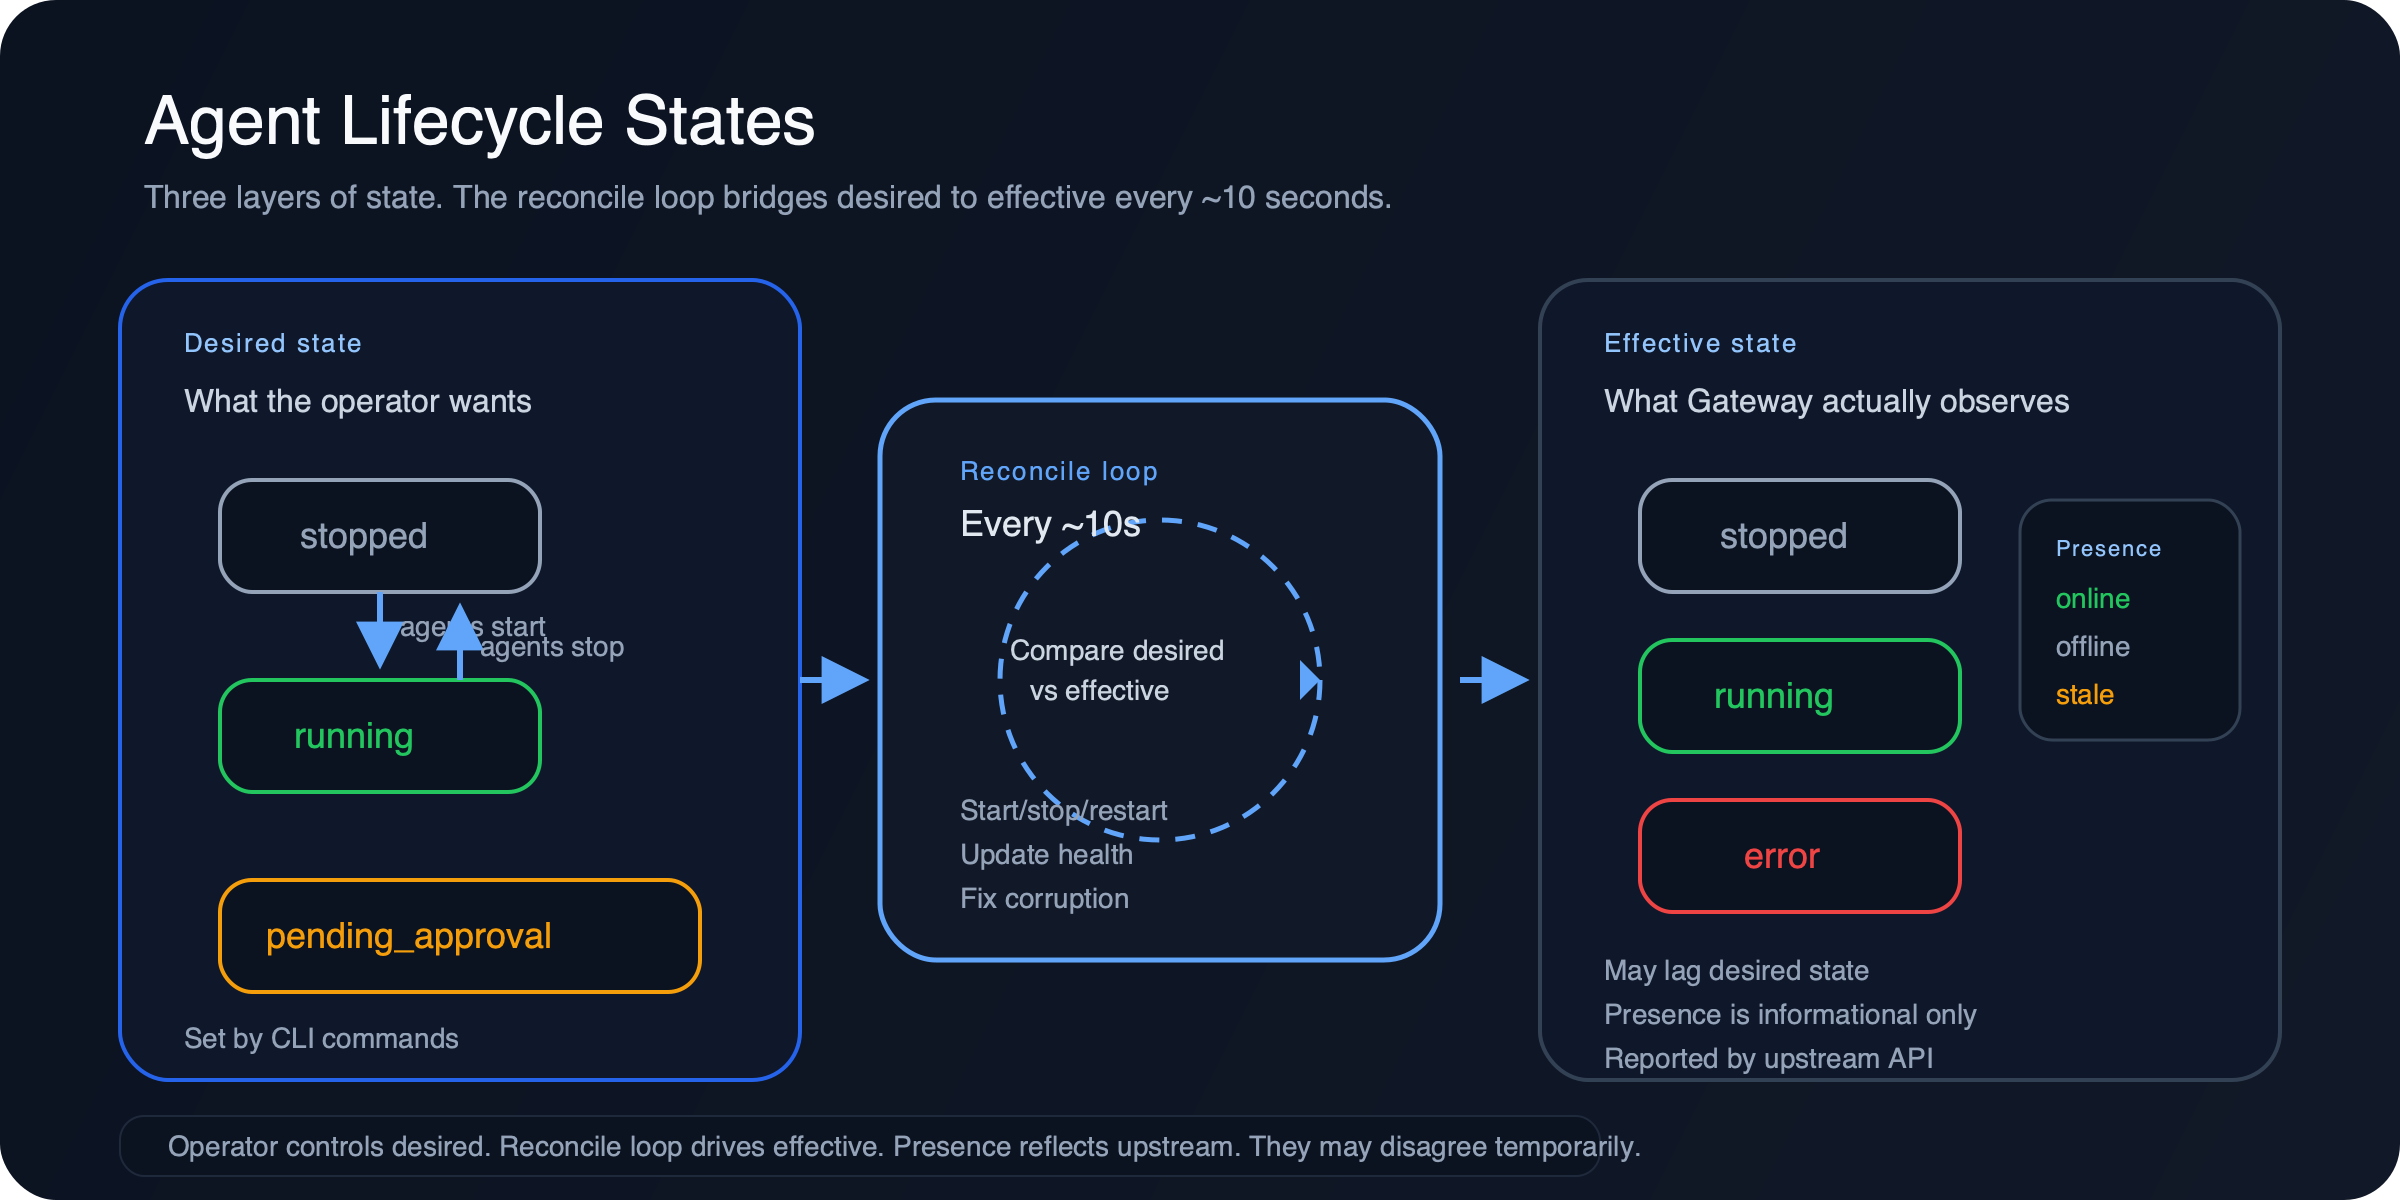
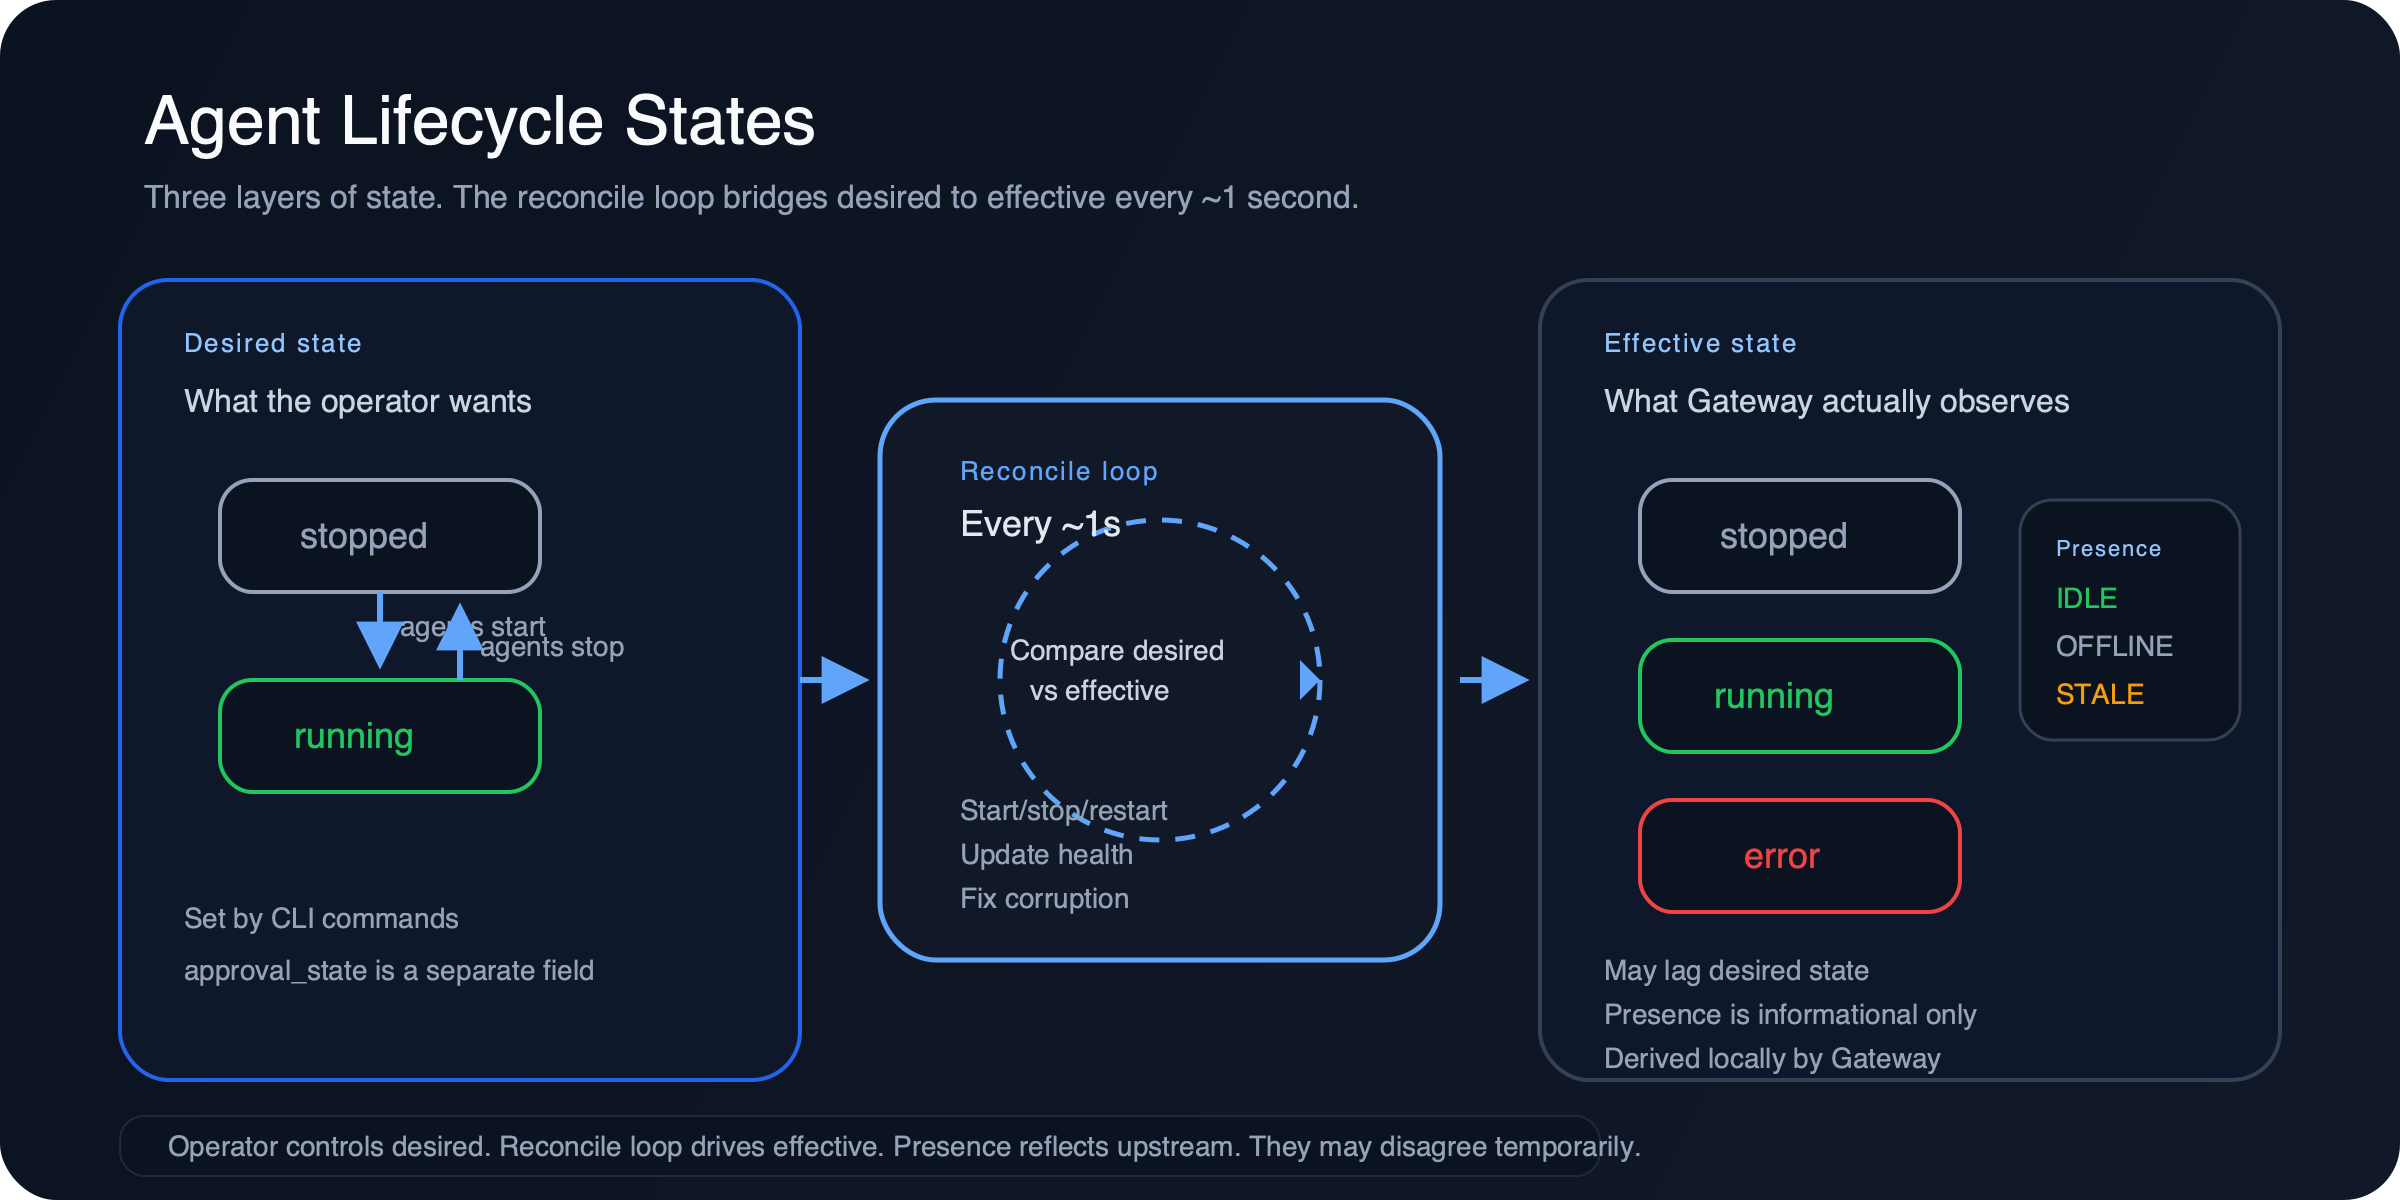
fix(docs): comprehensive accuracy pass — align diagrams and docs with codebase
Verified all SVG diagrams and doc sections against actual code. Key fixes:

- trust-boundary-model: add 3 missing proxy methods (list_agents_availability,
  list_context, get_context), mark update_task as ADMIN tier, fix auth command
- agent-lifecycle-states: fix reconcile interval (1s not 10s), remove
  pending_approval from desired state (separate approval_state field), fix
  presence values to _CONTROLLED_PRESENCE enum, fix derivation source
- inbox-vs-channel: fix signal chain (accepted, not picked_up)
- space-resolution-cascade: fix function description, update UUID-as-name
  warning to reflect _UUID_RE guard now in place
- config-resolution-cascade: add AX_AGENT_ID, fix user.toml claim (IS in
  config resolution), soften local config credentials note
- agent-authentication.md: fix line refs, session token TTL (24h), reuse
  semantics (reused within connection via X-Gateway-Session), auth command
- gateway-agent-runtimes.md: fix effective state values, presence derivation,
  space_name_from_cache description, attach vs mark-attached, 4 stale line
  numbers, signal names

Regenerated all 6 PNGs from updated SVGs.

diff --git a/docs/gateway-agent-runtimes.md b/docs/gateway-agent-runtimes.md
@@ -157,7 +157,7 @@ reply. This is how operators know work did not disappear into a black hole.
 
 Minimum signals:
 
-- `picked_up` or `working`: the runtime received the message.
+- `accepted` or `working`: the runtime received the message.
 - `thinking`: the model/runtime started processing.
 - `tool_call`: the runtime is using a tool, with a useful tool name or summary
   when available.
@@ -239,10 +239,10 @@ When Gateway needs a space name for an agent, it checks three sources in order:
    both caches miss.
 
 The key function is `space_name_from_cache(space_id)` in `ax_cli/gateway.py`.
-It checks the global disk cache for slug→UUID resolution and friendly-name
-hydration. `_fallback_allowed_spaces()` is a separate function that synthesizes
-per-agent space rows from entry/session fields — it does not populate the
-global disk cache.
+It does id-to-name lookup against the global disk cache.
+`lookup_space_in_cache()` handles slug-to-UUID resolution separately.
+`_fallback_allowed_spaces()` synthesizes per-agent space rows from
+entry/session fields — it does not populate the global disk cache.
 
 ### Common failure: UUID-as-name
 
@@ -251,8 +251,8 @@ platform bug or data inconsistency), the per-agent cache stores that UUID as the
 "name." The operator then sees a UUID in `agents show`, the UI agent table, and
 log messages — confusing but not a functional failure.
 
-**Fix:** The cache needs to validate that a name doesn't look like a UUID before
-storing it. This is a good first issue (see issue backlog).
+**Status:** The `_UUID_RE` guard now validates that a name doesn't look like a
+UUID before caching, preventing this at the storage layer.
 
 ### Space state storage
 
@@ -278,11 +278,12 @@ is key to debugging agent issues.
 | Layer | What it represents | Who sets it | Example values |
 | --- | --- | --- | --- |
 | **Desired state** | What the operator wants | `agents start`, `agents stop` | `running`, `stopped` |
-| **Effective state** | What Gateway observes locally | Reconcile loop | `running`, `stopped`, `error`, `pending_approval` |
-| **Presence** | What the upstream platform reports | Upstream API heartbeat | `online`, `offline`, `stale` |
+| **Effective state** | What Gateway observes locally | Reconcile loop | `running`, `stopped`, `error`, `starting`, `reconnecting` |
+| **Presence** | What Gateway derives locally | `_derive_presence()` | `IDLE`, `OFFLINE`, `STALE`, `WORKING`, `QUEUED`, `BLOCKED`, `ERROR` |
 
-The reconcile loop bridges desired to effective. It runs every ~10 seconds
-(`GatewayDaemon.run()` at `ax_cli/gateway.py:5767`) and for each agent:
+The reconcile loop bridges desired to effective. It runs every ~1 second
+(`GatewayDaemon.run()` at `ax_cli/gateway.py:6334`, default `poll_interval=1.0`)
+and for each agent:
 
 1. Compares `desired_state` to `effective_state`
 2. If they differ, takes action (start process, stop process, restart)
@@ -295,8 +296,14 @@ decisions. An agent can be `effective_state: running` locally but
 
 ### Manual attach
 
-An operator can force an agent to `running` effective state with `agents attach`.
-This is useful when:
+For attached-session agents (Claude Code channels), `agents mark-attached`
+forces both `desired_state` and `effective_state` to `running` immediately
+(see `_mark_attached_agent_session()` at `commands/gateway.py:1772`). This is
+the correct command for incident recovery of attached agents.
+
+`agents attach` is the setup command — it writes MCP/channel config, sets
+`desired_state` to `running`, and prints the attach command, but does not force
+`effective_state`. Use `mark-attached` when:
 - The reconcile loop hasn't caught up yet
 - The agent's runtime is managed externally (e.g., systemd) and Gateway just
   needs to know it's alive
@@ -340,7 +347,7 @@ messages from the upstream API, not from the local queue.
 Claude Code Channel agents maintain a live SSE connection. Messages are
 delivered in real-time through the channel — there is no local pending queue.
 The channel handles message acknowledgment through processing signals
-(`picked_up`, `working`, `completed`).
+(`accepted`, `working`, `completed`).
 
 ### `unread_only` filtering
 
@@ -357,7 +364,7 @@ the local pending queue so the UI stops showing a new-mail indicator.
 
 | Function | Location | Purpose |
 | --- | --- | --- |
-| `append_agent_pending_message()` | `ax_cli/gateway.py:2870` | Adds message to pending queue |
-| `remove_agent_pending_message()` | `ax_cli/gateway.py:2893` | Removes message (mark_read) |
-| `load_agent_pending_messages()` | `ax_cli/gateway.py:2853` | Reads pending queue from disk |
-| `_local_session_inbox()` | `ax_cli/commands/gateway.py:602` | HTTP handler for `/local/inbox` |
+| `append_agent_pending_message()` | `ax_cli/gateway.py:3046` | Adds message to pending queue |
+| `remove_agent_pending_message()` | `ax_cli/gateway.py:3069` | Removes message (mark_read) |
+| `load_agent_pending_messages()` | `ax_cli/gateway.py:3029` | Reads pending queue from disk |
+| `_local_session_inbox()` | `ax_cli/commands/gateway.py:860` | HTTP handler for `/local/inbox` |

diff --git a/docs/agent-authentication.md b/docs/agent-authentication.md
@@ -359,12 +359,12 @@ boundary is critical for security.
 | --- | --- | --- |
 | **Credential** | User PAT (`axp_u_...`) in `~/.ax/user.toml` | Agent-scoped PAT (`axp_a_...`) brokered by Gateway |
 | **Access** | Full user authority — create agents, mint tokens, manage spaces | Limited to the proxy allowlist and dedicated endpoints |
-| **Authentication** | `ax auth login` → stored user credential | `/local/connect` → short-lived session token (`axgw_s_...`) |
+| **Authentication** | `ax login` → stored user credential | `/local/connect` → session token (`axgw_s_...`, 24h TTL) |
 | **Trust level** | Trusted operator in a trusted terminal | Untrusted-by-default local process |
 
 ### The proxy allowlist
 
-The proxy dispatcher (`_LOCAL_PROXY_METHODS` in `ax_cli/commands/gateway.py:540`)
+The proxy dispatcher (`_LOCAL_PROXY_METHODS` in `ax_cli/commands/gateway.py:782`)
 is the enforcement mechanism. It controls which `AxClient` methods an agent
 session can call through Gateway's `/local/proxy` endpoint.
 
@@ -373,8 +373,8 @@ Current allowlist:
 ```
 whoami, list_spaces, list_agents, list_agents_availability,
 list_context, get_context, list_messages, get_message,
-search_messages, list_tasks, get_task, update_task,
-upload_file (admin tier, workdir-sandboxed)
+search_messages, list_tasks, get_task,
+update_task (admin tier), upload_file (admin tier, workdir-sandboxed)
 ```
 
 Write operations like `send_message` and `create_task` go through dedicated
@@ -393,8 +393,9 @@ agents to upload from their own workspace.
 When a local agent calls `/local/connect`, Gateway issues a session token
 (`axgw_s_<payload>.<signature>`). These tokens are:
 
-- **Short-lived** — they expire via TTL (no active session-end invalidation)
-- **Per-connect** — a new token is issued for each connection, not cached
+- **TTL-bounded** — 24-hour expiry (no active session-end invalidation)
+- **Per-connect** — a new token is issued for each `/local/connect` call; the agent
+  reuses it across subsequent API calls within that connection via `X-Gateway-Session`
 - **HMAC-SHA256 signed** — using the secret at `~/.ax/gateway/local_secret.bin`
 - **Scoped** — the token identifies which agent it was issued for
 
@@ -417,7 +418,9 @@ See [ADR-006](adr/ADR-006-use-admin-proxy-tiers.md).
    but is never used as an agent runtime credential.
 3. **The proxy is the gate.** Any method not in `_LOCAL_PROXY_METHODS` is
    rejected. Write operations go through dedicated endpoints.
-4. **Session tokens are disposable.** No caching, no reuse, no persistence.
+4. **Session tokens are disposable.** Issued per-connect with a 24h TTL. Issued
+   sessions are recorded in `registry["local_sessions"]` for audit and status
+   checks. The token is reused within a connection but not across connections.
 5. **Gateway binds to localhost only.** The OS network stack is the first
    access control layer. See [ADR-001](adr/ADR-001-gateway-localhost-only.md).
 
